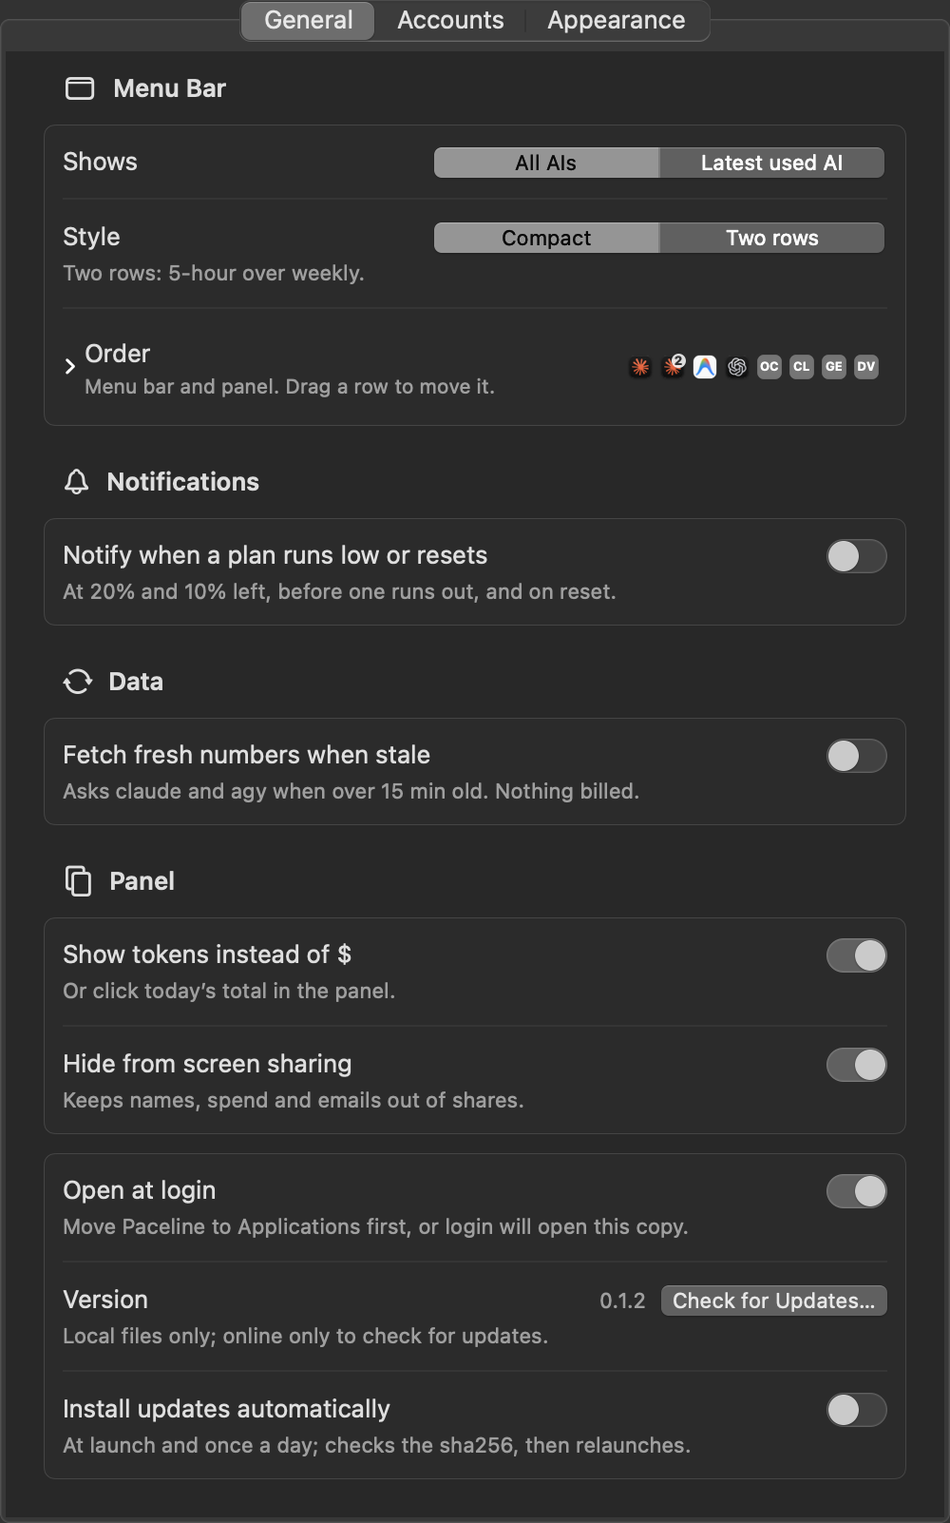
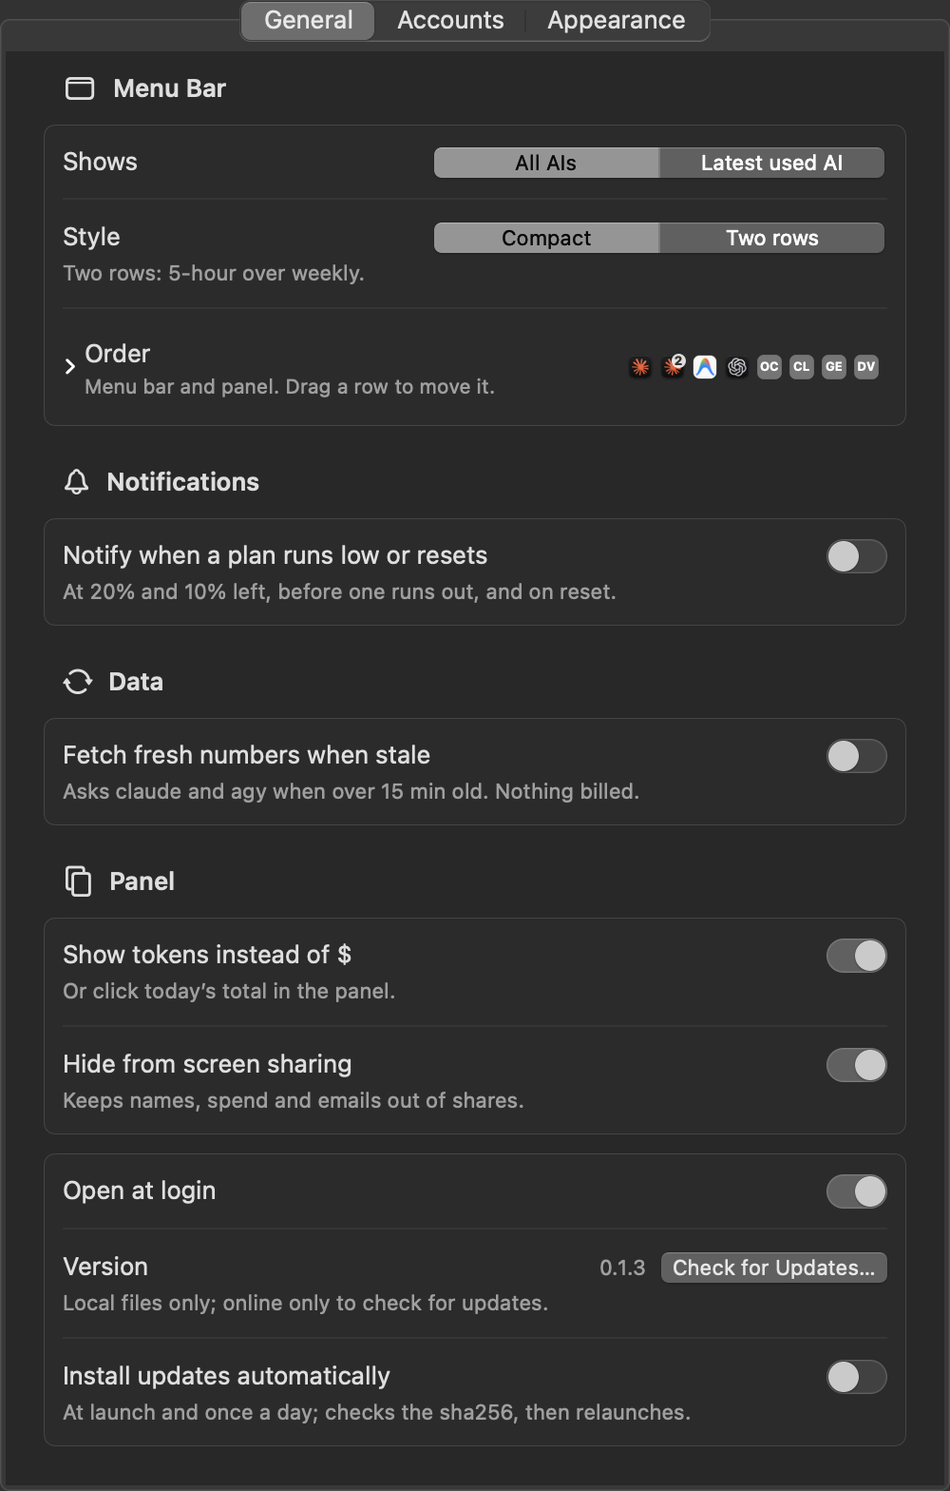
Paceline 0.1.3: the 7-day chart shows small AIs like Codex with each AI's total, and --check-update tests the update path

diff --git a/Sources/Paceline/Views.swift b/Sources/Paceline/Views.swift
@@ -176,8 +176,14 @@ enum ChartColors {
         return AIOrder.sorted(builtIn, saved: order) { $0 }
     }
 
+    /// For an AI with no colour of its own: the default grey reads as
+    /// secondary text on the panel, so it gets a clear magenta instead
+    /// (3.7:1 on white, 4.6:1 on the dark panel, nothing like Claude's orange).
+    static let gray: UInt32 = 0x8E8E93, unbranded: UInt32 = 0xD04ED6
+
     static func color(forKey key: String, accounts: [ClaudeAccount], dark: Bool) -> UInt32 {
-        let base = Providers.named(UsageHistory.agent(forKey: key))?.color ?? 0x8E8E93
+        let own = Providers.named(UsageHistory.agent(forKey: key))?.color ?? gray
+        let base = own == gray ? unbranded : own
         return shade(base, step: step(forKey: key, accounts: accounts), dark: dark)
     }
 
@@ -202,6 +208,29 @@ enum ChartColors {
     }
 }
 
+/// The heights the bars are drawn at: every segment above 0 at least
+/// `minPoints` tall in a plot `plotHeight` points high, so a 1% AI next to
+/// a big Claude day still shows. The tallest day keeps its height (the
+/// scale's top): its bigger segments give up the room, each by the same
+/// share of what it has above the minimum, so their order stays. Only what's
+/// drawn changes; totals and VoiceOver read the real values.
+enum ChartHeights {
+    static func drawn(_ days: [[Double]], plotHeight: Double, minPoints: Double = 2.5) -> [[Double]] {
+        let top = days.map { $0.reduce(0) { $0 + max($1, 0) } }.max() ?? 0
+        guard top > 0, plotHeight > 0 else { return days }
+        let least = top * minPoints / plotHeight
+        return days.map { day in
+            let raised = day.map { $0 > 0 ? max($0, least) : 0 }
+            guard raised.reduce(0, +) > top else { return raised }
+            let count = Double(day.filter { $0 > 0 }.count)
+            let room = top - least * count
+            guard room > 0 else { return day.map { $0 > 0 ? top / count : 0 } }
+            let above = day.reduce(0) { $0 + max($1 - least, 0) }
+            return day.map { $0 <= 0 ? 0 : $0 < least ? least : least + ($0 - least) * room / above }
+        }
+    }
+}
+
 /// The last 7 days under today's total: a small bar per day, split by AI,
 /// in $ or tokens like the total. Only when there's more than today to show.
 private struct HistoryChart: View {
@@ -210,21 +239,30 @@ private struct HistoryChart: View {
     let accounts: [ClaudeAccount]
     var order: [String] = []
     @Environment(\.colorScheme) private var scheme
+    @State private var plotHeight: Double = 30
 
     private struct Bar: Identifiable {
         let day: Date
         let key: String     // "Claude:work" for an extra account
         let value: Double
+        var drawn: Double = 0   // its height in the chart, small ones raised
         var id: String { "\(day.timeIntervalSince1970)-\(key)" }
     }
 
     var body: some View {
         let days = history.last(7)
-        let bars = days.flatMap { day, records in
-            records.map { Bar(day: day, key: $0.key, value: showUSD ? $0.value.usd : Double($0.value.tokens)) }
-        }.filter { $0.value > 0 }   // plan lows alone aren't bars
         // Every key with tokens or $ gets its colour and a legend entry, stacked in the menu bar's order.
         let keys = UsageHistory.legendKeys(days, accounts: accounts, order: order)
+        let perDay = days.map { day, records in
+            records.map { Bar(day: day, key: $0.key, value: showUSD ? $0.value.usd : Double($0.value.tokens)) }
+                .filter { $0.value > 0 }   // plan lows alone aren't bars
+                .sorted { (keys.firstIndex(of: $0.key) ?? 0) < (keys.firstIndex(of: $1.key) ?? 0) }
+        }
+        let heights = ChartHeights.drawn(perDay.map { $0.map(\.value) }, plotHeight: plotHeight)
+        let bars = zip(perDay, heights).flatMap { day, drawn in
+            zip(day, drawn).map { bar, height in var bar = bar; bar.drawn = height; return bar }
+        }
+        let top = max(heights.map { $0.reduce(0, +) }.max() ?? 0, 1e-9)
         let note = UsageHistory.unpricedNote(days, accounts: accounts, order: order, showUSD: showUSD)
         let total = bars.reduce(0) { $0 + $1.value }
         let daysWithData = Set(bars.map(\.day)).count
@@ -237,16 +275,22 @@ private struct HistoryChart: View {
                          + (showUSD ? Format.usd(total / Double(daysWithData)) : Format.tokens(Int(total) / daysWithData)) + "/day")
                         .font(.system(size: 10, design: .monospaced)).foregroundStyle(.secondary)
                 }
-                Chart(bars.sorted { (keys.firstIndex(of: $0.key) ?? 0) < (keys.firstIndex(of: $1.key) ?? 0) }) { bar in
-                    BarMark(x: .value("Day", bar.day, unit: .day), y: .value(showUSD ? "$" : "Tokens", bar.value))
+                Chart(bars) { bar in
+                    BarMark(x: .value("Day", bar.day, unit: .day), y: .value(showUSD ? "$" : "Tokens", bar.drawn))
                         .foregroundStyle(by: .value("AI", bar.key))
                         .cornerRadius(2)
                         .accessibilityLabel(bar.day.formatted(.dateTime.weekday(.wide)) + ", " + ChartColors.name(forKey: bar.key, accounts: accounts))
                         .accessibilityValue(showUSD ? Format.usd(bar.value) : Format.tokens(Int(bar.value)) + " tokens")
                 }
                 .chartForegroundStyleScale(domain: keys, range: keys.map { Color(hex: ChartColors.color(forKey: $0, accounts: accounts, dark: scheme == .dark)) })
+                .chartYScale(domain: 0...top)   // the tallest day fills the plot, so the minimum is in real points
                 .chartLegend(.hidden)
                 .chartYAxis(.hidden)
+                .chartOverlay { proxy in
+                    Color.clear
+                        .onAppear { plotHeight = proxy.plotSize.height }
+                        .onChange(of: proxy.plotSize.height) { _, height in plotHeight = height }
+                }
                 .chartXAxis {
                     AxisMarks(values: .stride(by: .day)) { _ in
                         AxisValueLabel(format: .dateTime.weekday(.narrow)).font(.system(size: 9))
@@ -254,7 +298,7 @@ private struct HistoryChart: View {
                 }
                 .frame(height: 46)
                 .accessibilityLabel("Last 7 days: \(showUSD ? Format.usd(total) : Format.tokens(Int(total)) + " tokens") in all")
-                legend(keys)
+                legend(keys, totals: UsageHistory.totals(days, showUSD: showUSD))
                 if let note {
                     Text(note).font(.system(size: 9.5)).foregroundStyle(.secondary).lineLimit(1).truncationMode(.middle)
                         .help(note)
@@ -266,8 +310,9 @@ private struct HistoryChart: View {
 }
 
 extension HistoryChart {
-    /// Logo, colour and name per key, wrapping onto a second line if they don't fit.
-    func legend(_ keys: [String]) -> some View {
+    /// Logo, colour, name and 7-day total per key, wrapping onto the next
+    /// line if they don't fit (a name is never cut).
+    func legend(_ keys: [String], totals: [String: String]) -> some View {
         FlowLayout(spacing: 8, lineSpacing: 2) {
             ForEach(keys, id: \.self) { key in
                 let name = ChartColors.name(forKey: key, accounts: accounts)
@@ -276,7 +321,11 @@ extension HistoryChart {
                     Circle().fill(Color(hex: ChartColors.color(forKey: key, accounts: accounts, dark: scheme == .dark)))
                         .frame(width: 6, height: 6)
                     Image(nsImage: AILogos.listIcon(for: listed ? name : "Claude", size: 11))
-                    Text(name).font(.system(size: 9.5)).foregroundStyle(.secondary).lineLimit(1)
+                    Text(name).font(.system(size: 9.5)).foregroundStyle(.secondary).lineLimit(1).fixedSize()
+                    if let total = totals[key] {
+                        Text(total).font(.system(size: 9.5, design: .monospaced)).foregroundStyle(.primary.opacity(0.75))
+                            .lineLimit(1).fixedSize()
+                    }
                 }
                 .accessibilityElement(children: .combine)
             }

diff --git a/Sources/Paceline/Updates.swift b/Sources/Paceline/Updates.swift
@@ -231,23 +231,38 @@ enum Updates {
     /// Downloads, checks the sha256, unzips beside the app (same volume), checks the new
     /// app, and swaps it in. Throws before touching the installed app if anything's off.
     private static func download(_ release: Release, replacing appURL: URL, bundleID: String, version: String) async throws {
-        guard let assets = release.assets else { throw Failure(reason: "The release has no Paceline.zip with a checksum.") }
         let fm = FileManager.default
         let work: URL
         do {
             work = try fm.url(for: .itemReplacementDirectory, in: .userDomainMask, appropriateFor: appURL, create: true)
         } catch { throw Failure(reason: "Couldn't make a folder for the download.") }
         defer { try? fm.removeItem(at: work) }
+        let newApp = try await fetchAndCheck(release, into: work, bundleID: bundleID, version: version)
+        try await Task.detached {
+            do {
+                _ = try FileManager.default.replaceItemAt(appURL, withItemAt: newApp)
+            } catch { throw Failure(reason: "Couldn't replace the app: \(error.localizedDescription)") }
+        }.value
+    }
+
+    /// Downloads the .sha256 and the zip into `work`, checks the hash, unzips, and checks the
+    /// app inside: its bundle id, that it's newer than `version`, and its code signature.
+    /// Returns that app, still in `work`. `passed` hears each step that checks out.
+    static func fetchAndCheck(_ release: Release, into work: URL, bundleID: String, version: String,
+                              passed: @escaping @Sendable (String) -> Void = { _ in }) async throws -> URL {
+        guard let assets = release.assets else { throw Failure(reason: "The release has no Paceline.zip with a checksum.") }
+        let fm = FileManager.default
 
         func get(_ url: URL) async throws -> URL {
             guard url.scheme == "https" else { throw Failure(reason: "The download isn't over HTTPS.") }
             let (file, response) = try await URLSession.shared.download(for: URLRequest(url: url, timeoutInterval: 120))
             guard (response as? HTTPURLResponse)?.statusCode == 200, response.url?.scheme == "https" else {
                 try? fm.removeItem(at: file)
-                throw Failure(reason: "The download failed.")
+                throw Failure(reason: "The download of \(url.lastPathComponent) failed.")
             }
             let kept = work.appendingPathComponent(UUID().uuidString)
             try fm.moveItem(at: file, to: kept)
+            passed("Downloaded \(url.lastPathComponent)")
             return kept
         }
         let sumFile = try await get(assets.checksum)
@@ -256,29 +271,92 @@ enum Updates {
         }
         let zip = try await get(assets.zip)
 
-        try await Task.detached {
+        return try await Task.detached {
             let fm = FileManager.default
             guard let data = try? Data(contentsOf: zip, options: .mappedIfSafe), sha256Hex(data) == expected else {
                 try? fm.removeItem(at: zip)
                 throw Failure(reason: "The download doesn't match the release's checksum.")
             }
+            passed("sha256 matches \(expected.prefix(12))…")
             let unzipped = work.appendingPathComponent("unzipped")
             guard run("/usr/bin/ditto", ["-x", "-k", zip.path, unzipped.path]) == 0 else { throw Failure(reason: "The download couldn't be unzipped.") }
             let newApp = unzipped.appendingPathComponent("Paceline.app")
+            passed("Unzipped")
             let info = NSDictionary(contentsOf: newApp.appendingPathComponent("Contents/Info.plist"))
             guard let id = info?["CFBundleIdentifier"] as? String, id == bundleID, !bundleID.isEmpty else {
                 throw Failure(reason: "The download isn't Paceline.")
             }
+            passed("Bundle id is \(id)")
             guard let newVersion = info?["CFBundleShortVersionString"] as? String, isNewer(newVersion, than: version) else {
                 throw Failure(reason: "The download isn't newer than \(version).")
             }
+            passed("The app inside is \(newVersion), newer than \(version)")
             guard run("/usr/bin/codesign", ["--verify", "--deep", "--strict", newApp.path]) == 0 else {
                 throw Failure(reason: "The downloaded app's code signature doesn't check out.")
             }
-            do {
-                _ = try fm.replaceItemAt(appURL, withItemAt: newApp)
-            } catch { throw Failure(reason: "Couldn't replace the app: \(error.localizedDescription)") }
+            passed("Code signature checks out")
+            return newApp
         }.value
+    }
+
+    // MARK: - --check-update
+
+    /// `--check-update [--from <version>]`: the version to check against, this copy's when
+    /// there's no --from; nil when --from has no value or it isn't a version.
+    static func checkVersion(arguments: [String], current: String) -> String? {
+        guard let i = arguments.firstIndex(of: "--from") else { return current }
+        guard i + 1 < arguments.count else { return nil }
+        let value = arguments[i + 1]
+        return value.range(of: #"^[vV]?[0-9]+(\.[0-9]+)*(-[0-9A-Za-z.]+)?$"#, options: .regularExpression) != nil ? value : nil
+    }
+
+    /// What Check for Updates… and Install and Relaunch do, without installing: asks GitHub,
+    /// and if there's something newer, downloads and checks it in a temporary folder, then
+    /// deletes it. No UI, no settings. 0 when every step passed or there's nothing newer.
+    static func commandLineCheck(_ arguments: [String]) async -> Int32 {
+        guard let version = checkVersion(arguments: arguments, current: current) else {
+            print("FAIL  --from needs a version, like --from 0.1.1")
+            return 2
+        }
+        print("This version: \(current)" + (version == current ? "" : " (checking as \(version))"))
+        let kind = thisInstall()
+        print("Installed by Homebrew: " + (kind == .homebrew ? "yes. Update it with brew upgrade --cask paceline" : "no"))
+        if kind != .homebrew, let reason = notUpdatableReason(kind) { print("Can replace itself: no. \(reason)") }
+        guard let found = await fetchLatest() else {
+            print("FAIL  GitHub didn't answer")
+            return 1
+        }
+        print("Latest on GitHub: \(found.tag)")
+        guard isNewer(found.tag, than: version) else {
+            print("Newer: no. \(version) is the latest version")
+            return 0
+        }
+        print("Newer: yes")
+
+        let fm = FileManager.default
+        let work: URL
+        do {
+            work = try fm.url(for: .itemReplacementDirectory, in: .userDomainMask, appropriateFor: Bundle.main.bundleURL, create: true)
+        } catch {
+            print("FAIL  Couldn't make a temporary folder")
+            return 1
+        }
+        var ok = true
+        do {
+            _ = try await fetchAndCheck(found, into: work, bundleID: Bundle.main.bundleIdentifier ?? "", version: version) { print("OK    \($0)") }
+        } catch {
+            ok = false
+            print("FAIL  " + ((error as? Failure)?.reason ?? error.localizedDescription))
+        }
+        try? fm.removeItem(at: work)
+        if fm.fileExists(atPath: work.path) {
+            ok = false
+            print("FAIL  Couldn't remove the temporary folder \(work.path)")
+        } else {
+            print("OK    Removed the temporary folder")
+        }
+        print(ok ? "All steps passed. Paceline \(found.version) would install." : "Paceline \(found.version) would not install.")
+        return ok ? 0 : 1
     }
 
     private static func run(_ path: String, _ arguments: [String]) -> Int32 {

diff --git a/Sources/Paceline/SelfTestChart.swift b/Sources/Paceline/SelfTestChart.swift
@@ -45,6 +45,39 @@ extension SelfTest {
         check(recorded.days[UsageHistory.key(now)]?["Codex"]?.unpricedTokens == nil, "priced later: cleared")
         check(Pricing.price(for: "gpt-6.1-sol").map { ($0.input, $0.cacheRead, $0.output) } ?? (0, 0, 0) == (2, 0.10, 10)
               && Pricing.price(for: "gpt-6.1-terra") == nil, "gpt-6.1-sol priced from OpenAI's page, its siblings not guessed")
+
+        // The legend's 7-day totals, in the unit shown.
+        let tokenTotals = UsageHistory.totals(last, showUSD: false), usdTotals = UsageHistory.totals(last, showUSD: true)
+        check(tokenTotals["Claude"] == "1.9k" && tokenTotals["Codex"] == "1.96M" && tokenTotals["OpenCode"] == nil,
+              "tokens: each AI's 7 days added up, plan lows left out → \(tokenTotals.sorted { $0.key < $1.key })")
+        check(usdTotals["Claude"] == "$5.00" && usdTotals["Cline"] == "$0.00" && usdTotals["Codex"] == "$?",
+              "$: free is $0.00, no price yet is $? → \(usdTotals.sorted { $0.key < $1.key })")
+
+        // Small AIs still show: at least 2.5 pt, the tallest day keeps its height, order kept.
+        let plot = 34.0, real = [[190e6, 258e6, 5.7e6], [100e6, 0, 0.2e6], [], [0, 0, 0]]
+        let drawn = ChartHeights.drawn(real, plotHeight: plot)
+        let top = real.map { $0.reduce(0, +) }.max()!, point = top / plot
+        let shape = drawn.map(\.count) == real.map(\.count)
+        check(shape && drawn[0][2] / point >= 2.5 - 1e-9 && drawn[1][1] == 0 && drawn[1][2] / point >= 2.5 - 1e-9,
+              "a 1% AI is raised to 2.5 pt (\(String(format: "%.2f", drawn[0][2] / point)) pt), 0 stays 0")
+        check(drawn.allSatisfy { $0.reduce(0, +) <= top * (1 + 1e-9) } && abs(drawn[0].reduce(0, +) - top) < 1,
+              "no day overflows the plot; the tallest keeps the top → \(drawn.map { Int($0.reduce(0, +) / 1e6) })M")
+        check(drawn[0][1] > drawn[0][0] && drawn[0][0] > drawn[0][2] && abs(drawn[0][0] / real[0][0] - 1) < 0.1 && drawn[1][0] == real[1][0],
+              "big segments keep their order and stay within 10%; a day with room is left alone")
+        let crowded = ChartHeights.drawn([[10, 0.01, 0.01, 0.01, 0.01, 0.01]], plotHeight: 34)[0]
+        check(abs(crowded.reduce(0, +) - 10.05) < 1e-9 && crowded.dropFirst().allSatisfy { $0 >= 2.5 * 10.05 / 34 - 1e-9 }
+              && crowded[0] > crowded[1], "many small ones on the tallest day: the big one gives up the room → \(crowded)")
+        let tight = ChartHeights.drawn([[5, 5, 5, 5, 5]], plotHeight: 10)[0]
+        check(tight.allSatisfy { abs($0 - 5) < 1e-9 }, "too many for the plot: shared evenly, never past the top")
+        check(ChartHeights.drawn([[0, 0]], plotHeight: 34) == [[0, 0]] && ChartHeights.drawn([[1]], plotHeight: 0) == [[1]], "nothing used: unchanged")
+
+        // Colours: Codex and AIs with no colour of their own are clear on both panels and not grey.
+        for (dark, background) in [(true, UInt32(0x1E1E1E)), (false, UInt32(0xFFFFFF))] {
+            let colors = ["Codex", "Kiro", "Unknown AI"].map { ChartColors.color(forKey: $0, accounts: [], dark: dark) }
+            let ratios = colors.map { ChartColors.contrast($0, background) }
+            check(ratios.allSatisfy { $0 >= 3 } && !colors.contains(ChartColors.gray) && !colors.contains(Providers.named("Claude")!.color),
+                  "\(dark ? "dark" : "light"): Codex and unbranded AIs 3:1 on the panel → \(ratios.map { String(format: "%.2f", $0) })")
+        }
         return failures
     }
 }

diff --git a/Sources/Paceline/History.swift b/Sources/Paceline/History.swift
@@ -109,6 +109,25 @@ struct UsageHistory: Codable, Equatable, Sendable {
         return ChartColors.stackOrder(used, accounts: accounts, order: order)
     }
 
+    /// Each key's total for these days, as the legend shows it after its
+    /// name: "5.70M" in tokens, "$1.20" in $, "$?" when its $0 is only for
+    /// want of a price (the note under the legend says how many tokens).
+    static func totals(_ days: [(day: Date, records: [String: DayRecord])], showUSD: Bool) -> [String: String] {
+        var tokens: [String: Int] = [:], usd: [String: Double] = [:], unpriced: [String: Int] = [:]
+        for (_, records) in days {
+            for (key, record) in records {
+                tokens[key, default: 0] += record.tokens
+                usd[key, default: 0] += record.usd
+                unpriced[key, default: 0] += record.unpricedTokens ?? 0
+            }
+        }
+        return tokens.reduce(into: [:]) { out, entry in
+            let (key, count) = entry, dollars = usd[key] ?? 0
+            guard count > 0 || dollars > 0 else { return }   // plan lows only: not in the legend
+            out[key] = !showUSD ? Format.tokens(count) : dollars <= 0 && (unpriced[key] ?? 0) > 0 ? "$?" : Format.usd(dollars)
+        }
+    }
+
     /// In $ only: the AIs whose days add up to $0 only because their models
     /// have no known price, e.g. "Codex: 1.96M tokens · no price yet".
     /// Free use (no unpriced tokens recorded) isn't listed.

diff --git a/Sources/Paceline/SelfTestUpdates.swift b/Sources/Paceline/SelfTestUpdates.swift
@@ -60,6 +60,15 @@ extension SelfTest {
         func blocked(_ k: Updates.InstallKind) -> Bool { if case .notUpdatable = k { true } else { false } }
         check(blocked(volumes) && blocked(translocated) && blocked(readOnly) && blocked(kind("/usr/local/bin/Paceline")),
               "a disk image, AppTranslocation, a read-only folder or no .app can't update")
+
+        func from(_ args: [String]) -> String? { Updates.checkVersion(arguments: ["Paceline", "--check-update"] + args, current: "0.1.2") }
+        check(from([]) == "0.1.2", "--check-update checks this copy's version without --from")
+        check(from(["--from", "0.1.1"]) == "0.1.1" && from(["--from", "v0.1.1"]) == "v0.1.1" && from(["--from", "1.0.0-beta.2"]) == "1.0.0-beta.2",
+              "--from takes 0.1.1, v0.1.1 or a pre-release")
+        check(from(["--from"]) == nil && from(["--from", "latest"]) == nil && from(["--from", "0.1."]) == nil && from(["--from", ""]) == nil,
+              "--from with no value, a word or a broken version is refused")
+        check(Updates.isNewer("v0.1.2", than: from(["--from", "0.1.1"])!) && !Updates.isNewer("v0.1.2", than: from([])!),
+              "--from 0.1.1 finds v0.1.2 newer; 0.1.2 itself is up to date")
         return failures
     }
 }

diff --git a/Sources/Paceline/Providers.swift b/Sources/Paceline/Providers.swift
@@ -72,7 +72,7 @@ enum Providers {
                  install: .init(command: "curl -fsSL https://claude.ai/install.sh | bash", page: URL(string: "https://claude.com/download")!,
                                 pageTitle: "Claude app")),
         Provider(name: "Codex", short: "CX", group: .planLimits, capabilities: [.planPercent, .tokens, .cost, .signIn],
-                 bundleID: "com.openai.codex", color: 0x8E8E93,
+                 bundleID: "com.openai.codex", color: 0x0A98AE,
                  fixes: ["Not signed in": .init(detail: "Sign in opens Terminal and runs codex login.", action: .signIn(.init("codex login"))),
                          "Installed": .init(title: "Codex: sign in to see its usage", detail: "Open the Codex app and sign in on its first screen.",
                                             action: .openApp(bundleID: "com.openai.codex"))],

diff --git a/Sources/Paceline/main.swift b/Sources/Paceline/main.swift
@@ -34,6 +34,11 @@ if arguments.contains("--sources") {
     UsageSources.printToday()
     exit(0)
 }
+// The update path without installing anything; see Updates.commandLineCheck.
+if arguments.contains("--check-update") {
+    Task.detached { exit(await Updates.commandLineCheck(arguments)) }
+    dispatchMain()
+}
 if let i = arguments.firstIndex(of: "--render-icon"), i + 1 < arguments.count {
     exit(SelfTest.renderIcon(to: arguments[i + 1]) ? 0 : 1)
 }

diff --git a/README.md b/README.md
@@ -44,7 +44,7 @@ A macOS menu bar app that shows how much of your AI plans you have left, and whe
 - Plan limits left per account, with reset times
 - "On pace" or "Runs out in …"
 - Today's API-equivalent spend and tokens, by Claude account, by model and by project. Models without a known price say "price unknown" instead of showing $0.00.
-- The last 7 days as small bars, split by AI (each Claude account its own colour), with a legend under them. Paceline keeps a daily summary for 30 days in `~/Library/Application Support/Paceline/history.json`: tokens and $ per AI, and the lowest 5-hour and weekly percentages left. It writes the file at most every 5 minutes.
+- The last 7 days as small bars, split by AI (each Claude account its own colour), with a legend under them that gives each AI's 7-day total. An AI that used only a little still gets a thin visible slice; the totals stay exact. Paceline keeps a daily summary for 30 days in `~/Library/Application Support/Paceline/history.json`: tokens and $ per AI, and the lowest 5-hour and weekly percentages left. It writes the file at most every 5 minutes.
 
 Old data is dimmed and says how old it is.
 
